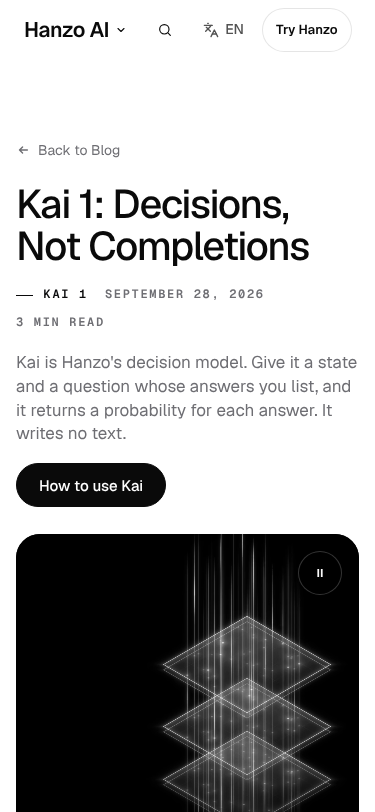
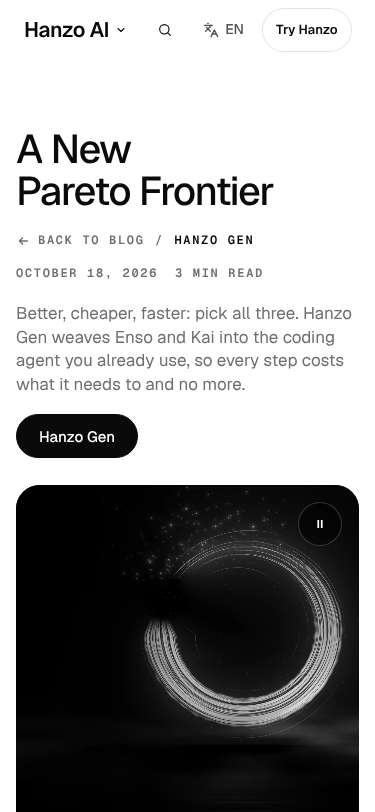
fix(blog-family): one ask at every width from first paint, phone ask in the chapter bar, breadcrumb under the h1, data-led post rhythm, asymmetric synthesis parts
Claude-Session: https://claude.ai/code/session_01T1hoMuz3Pa3LFEtY3bJiXi

Changed region(s): [[0.0293, 0.1539, 0.968, 1.0]]

diff --git a/components/pages/post/Post.jsx b/components/pages/post/Post.jsx
@@ -9,7 +9,7 @@
    Signature: the reading thread. A margin rail holds the chapter you are in as a numeral that hands over to the next,
    and a spine that fills as you read, each chapter a knot (on a phone, a reading bar that opens the contents).
    Beyond: minutes left. The post's own stated read time counts down as you read, and any chapter is one press away.
-   V2: 8/10 round 2: title cut-in is CSS from first paint and the film's poster drifts at once (no dead first second); every text-only chapter draws its own figures, bars or steps (Gist.jsx, no new copy); on phones the post's ask is the one solid (header quiet while it shows); chapter counter read on every scroll; Band headline balanced */
+   V2: 8/10 round 3: one ask everywhere (header outlined from first paint while the post's own ask shows; on phones the ask rides in the chapter bar and the shared rising bar never floats over text); "Back to Blog / <chip>" breadcrumb under the h1; each post's data sets its rhythm (a figures post mirrors the scene, counts its figures with the scroll and keeps its rail on the right); synthesis parts lead with one large film and list the rest. Round 2: CSS title cut-in, poster drift, chapter gists, counter on every scroll */
 // Persona: a developer or founder reading Hanzo's thinking (arrives from /blog, search or a shared link)
 // Goal: finish the post, understand its one idea, take the post's own next step
 // CTA: the post's first closing link as the one solid ask (hero, data-thumb, data-cta "blog-post.hero"), repeated in the closing Band
@@ -61,13 +61,16 @@ function Code({ tabs, id }) {
   );
 }
 
-/* role · name · note between hairlines; a part with its own Hanzo film shows it */
+/* role · name · note, asymmetric: the first part leads, large, with its own Hanzo film playing; the rest follow as a
+   list beside it, each with its film's still (or its Sigil when it has no film) as a small mark */
 function Parts({ cards }) {
   return (
-    <ul className="xbg-parts" style={{ '--n': Math.min(cards.length, 3) }}>
+    <ul className="xbg-parts" style={{ '--rest': Math.max(1, cards.length - 1) }}>
       {cards.map(([role, name, note], i) => (
-        <li key={name + i}>
-          {FILMS.includes(name.toLowerCase()) && <Film slug={name.toLowerCase()} className="xbg-part-film" />}
+        <li key={name + i} className={i === 0 ? 'lead' : ''}>
+          {i === 0
+            ? (FILMS.includes(name.toLowerCase()) && <Film slug={name.toLowerCase()} className="xbg-part-film" />)
+            : <span className="xbg-part-mark" aria-hidden="true">{FILMS.includes(name.toLowerCase()) ? <Img src={film(name.toLowerCase(), 'webp')} alt="" w={1200} h={1500} /> : <Sigil seed={'part-' + name} data={[name.length, note.length]} className="xbg-sigil" />}</span>}
           <b className="xbg-name">{name}</b>
           <span className="xbg-role x-mono">{role}</span>
           <span className="xbg-note">{note}</span>
@@ -111,27 +114,46 @@ function Title({ text }) {
    motion and no-JS get the same parts stacked. The header turns dark only once the plate fills the screen. */
 const PIN = '(min-width: 900px) and (prefers-reduced-motion: no-preference)';
 
-/* Phones keep Hanzo's "Try Hanzo" solid in the header; while the post's own solid ask is on screen the header's button
-   reads as an outline (the same html[data-ask=quiet] the shell sets on desktop), so the post's ask is the one solid. */
-function useOneSolidOnPhone() {
+/* One solid at a time, from the first paint (the /affiliate pattern): Post.css draws the header's ask outlined on a post
+   unless <html> carries data-xbg-solid. This hook sets that flag only while none of the post's own solid asks (the hero
+   ask, the phone chapter bar's ask, the closing Band's) is on screen, so the header is solid exactly when the post's
+   ask is not, at every width, and there is no solid-to-outline flash in the first second. */
+const OWN_ASKS = 'main.xbg [data-cta="blog-post.hero"], main.xbg [data-cta="blog-post.bar"], main.xbg .x-band .x-btn.solid';
+function useQuietHeader() {
   useEffect(() => {
     const H = document.documentElement;
-    const mq = matchMedia('(max-width: 700px)');
-    const el = document.querySelector('main.xbg [data-cta="blog-post.hero"]');
-    if (!el) return;
-    let mine = false, vis = false;
+    const asks = [...document.querySelectorAll(OWN_ASKS)];
+    if (!asks.length || typeof IntersectionObserver === 'undefined') return;
+    const vis = new Set();
+    // the hero ask fades out as the pinned plate opens (data-gone): faded counts as gone
     const apply = () => {
-      if (mq.matches && vis) { H.dataset.ask = 'quiet'; mine = true; }
-      else if (mine) { delete H.dataset.ask; mine = false; }
+      const on = [...vis].some((el) => !el.closest('[data-gone="true"]'));
+      if (on) delete H.dataset.xbgSolid; else H.dataset.xbgSolid = '';
     };
-    const io = new IntersectionObserver(([e]) => { vis = e.isIntersecting; apply(); });
-    io.observe(el);
-    const timers = [300, 1400].map((ms) => setTimeout(apply, ms)); // after the shell's own first pass
-    mq.addEventListener('change', apply);
-    return () => { io.disconnect(); timers.forEach(clearTimeout); mq.removeEventListener('change', apply); if (mine) delete H.dataset.ask; };
+    const io = new IntersectionObserver((es) => {
+      es.forEach((e) => (e.isIntersecting && e.boundingClientRect.width ? vis.add(e.target) : vis.delete(e.target)));
+      apply();
+    });
+    asks.forEach((a) => io.observe(a));
+    addEventListener('scroll', apply, { passive: true });
+    return () => { io.disconnect(); removeEventListener('scroll', apply); delete H.dataset.xbgSolid; };
   }, []);
 }
-function Stage({ doc, nums, ask }) {
+
+/* a plate figure counted up by the scroll as the plate opens (posts whose plate holds figures); the string is Hanzo's */
+function ScrubFig({ value, p, from, to }) {
+  const m = /^([^0-9]*)([0-9][0-9,]*(?:\.[0-9]+)?)(.*)$/.exec(value);
+  const mv = useTransform(p, (v) => {
+    if (!m) return value;
+    const k = Math.min(1, Math.max(0, (v - from) / (to - from)));
+    if (k >= 1) return value;
+    const n = parseFloat(m[2].replace(/,/g, '')), dec = (m[2].split('.')[1] || '').length;
+    const x = n * (1 - Math.pow(1 - k, 3));
+    return m[1] + (m[2].includes(',') ? x.toLocaleString('en-US', { minimumFractionDigits: dec, maximumFractionDigits: dec }) : x.toFixed(dec)) + m[3];
+  });
+  return <motion.span aria-hidden="true">{mv}</motion.span>;
+}
+function Stage({ doc, nums, ask, alt }) {
   const ref = useRef(null), plate = useRef(null), slot = useRef(null);
   const box = useRef({ t: 120, r: 32, b: 72, l: 520 });
   const [pin, setPin] = useState(false);
@@ -168,7 +190,7 @@ function Stage({ doc, nums, ask }) {
     if (v.paused) { v.play().catch(() => {}); setPaused(false); } else { v.pause(); setPaused(true); }
   };
   return (
-    <section className={'xbg-stage' + (doc.film ? ' film' : '')} ref={ref} aria-labelledby="xbg-h1">
+    <section className={'xbg-stage' + (doc.film ? ' film' : '')} ref={ref} aria-labelledby="xbg-h1" data-ask-hide>
       <div className="xbg-stage-in">
         <motion.div className="xbg-plate-in" ref={plate} style={pin ? { clipPath } : undefined}>
           {doc.film && (
@@ -185,7 +207,7 @@ function Stage({ doc, nums, ask }) {
                 <ul className={'xbg-facts' + (figs ? ' figs' : '')} style={{ '--n': doc.facts.length > 3 ? 2 : doc.facts.length }}>
                   {doc.facts.map(([role, name, note], i) => (
                     <li key={name + i}>
-                      <b className="xbg-fig">{name}</b>
+                      <b className="xbg-fig" aria-label={pin && alt ? name : undefined}>{pin && alt ? <ScrubFig value={name} p={p} from={0.46} to={0.8} /> : name}</b>
                       <span className="xbg-role x-mono">{role}</span>
                       <span className="xbg-note">{note}</span>
                     </li>
@@ -198,9 +220,16 @@ function Stage({ doc, nums, ask }) {
         <motion.div className="xbg-cover" style={pin ? { opacity: coverO, y: coverY } : undefined}>
           <div className="xbg-w xbg-cover-g">
             <div className="xbg-cover-t">
-              <A to={doc.back.href} className="xbg-back"><svg viewBox="0 0 16 16" width="14" height="14" aria-hidden="true"><path d="M13 8H4M7.5 4.5 4 8l3.5 3.5" fill="none" stroke="currentColor" strokeWidth="1.6" strokeLinecap="round" strokeLinejoin="round" /></svg><span>{doc.back.label}</span></A>
               <Title text={doc.title} />
-              <p className="xbg-meta x-mono"><span className="xbg-chip">{doc.chip}</span><span>{doc.date}</span><span>{doc.read}</span></p>
+              <div className="xbg-meta x-mono">
+                <nav aria-label="Breadcrumb" className="xbg-crumbs">
+                  <ol>
+                    <li><A to={doc.back.href} className="xbg-back"><svg viewBox="0 0 16 16" width="14" height="14" aria-hidden="true"><path d="M13 8H4M7.5 4.5 4 8l3.5 3.5" fill="none" stroke="currentColor" strokeWidth="1.6" strokeLinecap="round" strokeLinejoin="round" /></svg><span>{doc.back.label}</span></A></li>
+                    <li aria-current="page" className="xbg-chip">{doc.chip}</li>
+                  </ol>
+                </nav>
+                <span>{doc.date}</span><span>{doc.read}</span>
+              </div>
               <p className="xbg-lede">{doc.lede}</p>
               {ask && <div className="xbg-ask"><Cta to={ask.href} id="blog-post.hero" thumb>{ask.label}</Cta></div>}
             </div>
@@ -213,10 +242,10 @@ function Stage({ doc, nums, ask }) {
 }
 
 /* the reading thread: the chapter numeral, the spine and its knots, the minutes left; a reading bar on phones */
-function Thread({ doc, chapters, body }) {
+function Thread({ doc, chapters, body, ask }) {
   const [at, setAt] = useState(0);
   const [open, setOpen] = useState(false);
-  const left = useRef(null), leftP = useRef(null);
+  const left = useRef(null), leftP = useRef(null), leftS = useRef(null);
   const { scrollYProgress: fill } = useScroll({ target: body, offset: ['start 40%', 'end 85%'] });
   const say = (v) => { const m = Math.ceil(doc.minutes * (1 - v) - 0.05); return v > 0.985 ? 'Finished' : (m < 1 ? 'Under a minute' : m + ' min') + ' left'; };
   // the chapter you are in: the last heading above 60% of the screen, read on every scroll (not only while the body's
@@ -238,7 +267,7 @@ function Thread({ doc, chapters, body }) {
   useMotionValueEvent(fill, 'change', (v) => {
     const s = say(v);
     done.current = v > 0.985;
-    [left.current, leftP.current].forEach((el) => { if (el && el.textContent !== s) el.textContent = s; });
+    [left.current, leftP.current, leftS.current].forEach((el) => { if (el && el.textContent !== s) el.textContent = s; });
   });
   const list = (tap) => (
     <ol className="xbg-knots">
@@ -267,14 +296,20 @@ function Thread({ doc, chapters, body }) {
         </div>
       </aside>
       <div className="xbg-bar">
-        <button type="button" className="xbg-bar-b" aria-expanded={open} aria-controls="xbg-sheet" onClick={() => setOpen((o) => !o)}>
-          <span className="xbg-bar-n x-mono">{pad(at + 1)}</span>
-          <span className="xbg-bar-t">{chapters[at] ? chapters[at].h.text : doc.title}</span>
-          <span className="xbg-bar-m x-mono" ref={leftP}>{say(0)}</span>
-          <svg viewBox="0 0 16 16" width="14" height="14" aria-hidden="true" className={open ? 'up' : ''}><path d="M4 6l4 4 4-4" fill="none" stroke="currentColor" strokeWidth="1.6" strokeLinecap="round" strokeLinejoin="round" /></svg>
-        </button>
+        <div className="xbg-bar-row">
+          <button type="button" className="xbg-bar-b" aria-expanded={open} aria-controls="xbg-sheet" onClick={() => setOpen((o) => !o)}>
+            <span className="xbg-bar-n x-mono">{pad(at + 1)}</span>
+            <span className="xbg-bar-t">{chapters[at] ? chapters[at].h.text : doc.title}</span>
+            <span className="xbg-bar-m x-mono" ref={leftP}>{say(0)}</span>
+            <svg viewBox="0 0 16 16" width="14" height="14" aria-hidden="true" className={open ? 'up' : ''}><path d="M4 6l4 4 4-4" fill="none" stroke="currentColor" strokeWidth="1.6" strokeLinecap="round" strokeLinejoin="round" /></svg>
+          </button>
+          {ask && <Cta to={ask.href} id="blog-post.bar" size="sm" className="xbg-bar-ask">{ask.label}</Cta>}
+        </div>
         <motion.span className="xbg-bar-line" aria-hidden="true" style={{ scaleX: fill }} />
-        <div id="xbg-sheet" className="xbg-sheet" hidden={!open}>{list(true)}</div>
+        <div id="xbg-sheet" className="xbg-sheet" hidden={!open}>
+          {ask && <p className="xbg-sheet-m x-mono"><span>{doc.read}</span><span ref={leftS}>{say(0)}</span></p>}
+          {list(true)}
+        </div>
       </div>
     </>
   );
@@ -286,7 +321,7 @@ const Chevron = () => <svg viewBox="0 0 16 16" width="14" height="14" aria-hidde
 function End({ doc, cta, sources }) {
   return (
     <>
-      <section className="xbg-end" aria-label={doc.back.label}>
+      <section className="xbg-end" aria-label={doc.back.label} data-ask-hide>
         <div className="xbg-w">
           {sources && (
             <aside className="xbg-src" aria-label={sources.label}>
@@ -334,14 +369,20 @@ export default function Post({ doc }) {
   });
   chapters.forEach((c) => { c.gist = gist(c.blocks); });
   const nums = [doc.minutes, doc.title.length];
-  useOneSolidOnPhone();
+  const ask = cta && cta.links[0];
+  // each post's own data sets its rhythm: a post whose plate holds figures (Kai) mirrors the scene (film card on the
+  // left, title on the right, figures counted up by the scroll, the reading rail on the right); a post whose plate
+  // names products (Pareto) keeps the card on the right and the rail on the left; a post without a film keeps its Sigil
+  const alt = !!doc.film && doc.facts.length > 0 && doc.facts.every((c) => /\d/.test(c[1]));
+  useQuietHeader();
+  // data-ask-hide: the post's ask lives inline (hero, phone chapter bar, Band), so the shared rising bar never floats over it
   return (
-    <main className="xbg">
-      <Stage doc={doc} nums={nums} ask={cta && cta.links[0]} />
+    <main className={'xbg' + (alt ? ' alt' : '')}>
+      <Stage doc={doc} nums={nums} ask={ask} alt={alt} />
 
-      <section className="xbg-body">
+      <section className="xbg-body" data-ask-hide>
         <div className="xbg-w xbg-room">
-          <Thread doc={doc} chapters={chapters} body={body} />
+          <Thread doc={doc} chapters={chapters} body={body} ask={ask} />
           <article className="xbg-text" ref={body}>
             {chapters.map((c, n) => (
               <section key={c.h.id} className="xbg-ch" aria-labelledby={c.h.id}>

diff --git a/components/pages/post/Post.css b/components/pages/post/Post.css
@@ -9,7 +9,10 @@
 .xbg-stage-in { display: flex; flex-direction: column; }
 .xbg-cover { order: -1; padding: 116px 0 44px; }
 .xbg-cover-t { display: flex; flex-direction: column; align-items: flex-start; }
-.xbg-back { display: inline-flex; align-items: center; gap: 8px; min-height: 44px; margin-bottom: 27px; color: var(--mute); text-decoration: none; font: 400 14px/1 var(--sans); transition: color 150ms cubic-bezier(0, 0, .2, 1), transform 90ms cubic-bezier(0, 0, .2, 1); }
+.xbg-crumbs ol { display: flex; flex-wrap: wrap; align-items: center; gap: 0 10.5px; margin: 0; padding: 0; list-style: none; }
+.xbg-crumbs li { display: inline-flex; align-items: center; }
+.xbg-crumbs .xbg-chip::before { content: '/'; width: auto; height: auto; background: none; color: var(--mute); }
+.xbg-back { display: inline-flex; align-items: center; gap: 8px; min-height: 44px; color: var(--mute); text-decoration: none; font: inherit; transition: color 150ms cubic-bezier(0, 0, .2, 1), transform 90ms cubic-bezier(0, 0, .2, 1); }
 .xbg-back svg { transition: transform 300ms cubic-bezier(.4, 0, .2, 1); }
 @media (hover: hover) { .xbg-back:hover { color: var(--ink2); } .xbg-back:hover svg { transform: translateX(-4px); } }
 .xbg-back:active { transform: translateY(1px); transition-duration: 0s; }
@@ -21,7 +24,11 @@
 .xbg-plate-film { animation: xbg-drift 9s ease-in-out infinite alternate; }
 @keyframes xbg-drift { from { transform: scale(1.06) translate3d(1.5%, 1%, 0); } to { transform: scale(1) translate3d(0, 0, 0); } }
 @media (prefers-reduced-motion: reduce) { .xbg-wi, .xbg-plate-film, .xbg-gist * { animation: none !important; } }
-.xbg-meta { display: flex; flex-wrap: wrap; align-items: center; gap: 6.5px 17px; margin: 17px 0 0; color: var(--mute); }
+.xbg-meta { display: flex; flex-wrap: wrap; align-items: center; gap: 0 17px; margin: 6.5px 0 0; color: var(--mute); }
+/* one solid at a time from the first paint (the /affiliate pattern): the header's ask is outlined on a post until the
+   post's hook says none of its own asks is on screen (html[data-xbg-solid]) */
+html:has(main.xbg):not([data-xbg-solid]) header[data-slot=masthead] a[href="https://hanzo.ai/signup"],
+html:has(main.xbg):not([data-xbg-solid]) header[data-slot=masthead] a[data-x-ask] { background-color: transparent; color: var(--foreground); box-shadow: inset 0 0 0 1px var(--border, rgba(0, 0, 0, .14)); }
 .xbg-chip { display: inline-flex; align-items: center; gap: 10.5px; color: var(--ink2); }
 .xbg-chip::before { content: ''; width: 17px; height: 1px; background: currentColor; }
 .xbg-lede { margin: 27px 0 0; max-width: 44ch; font-size: 21px; line-height: 1.4; color: var(--mute); text-wrap: pretty; }
@@ -66,6 +73,19 @@
   .js .xbg-cover-t { max-width: calc((var(--W) - 27px) * 5 / 13); pointer-events: auto; }
   .js .xbg-slot { display: block; position: absolute; top: var(--ct); bottom: var(--cb); left: var(--cl); right: var(--L); pointer-events: none; }
   .js .xbg-stage[data-gone='true'] .xbg-cover { visibility: hidden; }
+  /* a figures post (Kai) mirrors the scene: card on the left, title on the right, figures settle on the right */
+  .js .alt .xbg-stage .xbg-plate-in { clip-path: inset(var(--ct) var(--cl) var(--cb) var(--L) round 24px); }
+  .js .alt .xbg-slot { left: var(--L); right: var(--cl); }
+  .js .alt .xbg-cover-t { margin-left: auto; }
+  .js .alt .xbg-pause { right: auto; left: calc(var(--L) + 17px); }
+  .js .alt .xbg-plate-film { right: auto; left: 0; object-position: 40% 45%; -webkit-mask-image: linear-gradient(270deg, transparent 0, #000 30%); mask-image: linear-gradient(270deg, transparent 0, #000 30%); }
+  .js .alt .xbg-plate-f { align-self: flex-end; transform-origin: 100% 100%; }
+  .js .alt .xbg-plate-k { flex-direction: row-reverse; }
+}
+/* a figures post keeps its reading rail on the right of the column */
+@media (min-width: 1200px) {
+  .alt .xbg-room { grid-template-columns: minmax(0, 768px) minmax(0, 1fr); }
+  .alt .xbg-rail { order: 2; }
 }
 
 /* ---------- the room: the thread on the left, one 768px reading column on the right ---------- */
@@ -104,9 +124,16 @@
 .xbg-knots li[data-on] .xbg-knot::after { content: ''; position: absolute; inset: -4px; border-radius: 50%; box-shadow: 0 0 0 1.5px var(--ink2); }
 .xbg-bar { display: none; }
 
-/* parts between hairlines; a part with a Hanzo film shows it */
-.xbg-parts { list-style: none; margin: 44px 0; padding: 0; display: grid; grid-template-columns: repeat(var(--n), minmax(0, 1fr)); column-gap: 27px; row-gap: 44px; }
-.xbg-parts li { display: flex; flex-direction: column; gap: 10.5px; padding-top: 17px; border-top: 1px solid var(--ink2); }
+/* parts, asymmetric: the first leads large with its film playing; the rest are a list beside it, each with a small mark */
+.xbg-parts { list-style: none; margin: 44px 0; padding: 0; display: grid; grid-template-columns: minmax(0, 5fr) minmax(0, 7fr); column-gap: 44px; align-items: start; }
+.xbg-parts li { display: grid; grid-template-columns: 56px minmax(0, 1fr); grid-template-areas: 'm n' 'm r' 'm t'; column-gap: 17px; row-gap: 4px; grid-column: 2; padding: 17px 0; border-top: 1px solid var(--hair); }
+.xbg-parts li .xbg-name { grid-area: n; font-size: 21px; }
+.xbg-parts li .xbg-role { grid-area: r; }
+.xbg-parts li .xbg-note { grid-area: t; }
+.xbg-parts li.lead { grid-column: 1; grid-row: 1 / span var(--rest); display: flex; flex-direction: column; gap: 10.5px; padding-top: 17px; border-top: 1px solid var(--ink2); }
+.xbg-parts li.lead .xbg-name { font-size: 44px; font-weight: 220; letter-spacing: -.03em; }
+.xbg-part-mark { grid-area: m; position: relative; display: block; width: 56px; aspect-ratio: 4 / 5; border-radius: 10.5px; overflow: hidden; background: #000; color: rgba(255, 255, 255, .6); }
+.xbg-part-mark img, .xbg-part-mark .xbg-sigil { position: absolute; inset: 0; width: 100%; height: 100%; object-fit: cover; }
 .xbg-part-film { width: 100%; aspect-ratio: 4 / 5; height: auto; object-fit: cover; border-radius: 20px; background: #000; margin-bottom: 6.5px; }
 .xbg-name { font-size: 26px; font-weight: 497; letter-spacing: -.02em; line-height: 1.1; }
 .xbg-role { color: var(--mute); }
@@ -213,6 +240,9 @@ html:not(.js) .xbg-gist-track i { transform: none; }
   .xbg-rail { display: none; }
   .xbg-text { max-width: 768px; }
   .xbg-bar { display: block; position: sticky; top: 60px; z-index: 10; margin: 0 calc(-1 * var(--gut)) 44px; background: var(--room-bg); border-bottom: 1px solid var(--hair); }
+  .xbg-bar-row { display: flex; align-items: center; gap: 10.5px; padding-right: var(--gut); }
+  .xbg-bar-row .xbg-bar-b { flex: 1; min-width: 0; padding-right: 0; }
+  .xbg-bar-ask { display: none; flex: none; }
   .xbg-bar-b { display: grid; grid-template-columns: auto minmax(0, 1fr) auto 14px; align-items: center; gap: 10.5px; width: 100%; min-height: 56px; padding: 0 var(--gut); border: 0; background: none; text-align: left; color: var(--ink2); font: 400 14px/1.2 var(--sans); cursor: pointer; }
   .xbg-bar-b:active { transform: scale(.99); }
   .xbg-bar-n { font-size: 12px; color: var(--mute); letter-spacing: .14em; }
@@ -225,7 +255,6 @@ html:not(.js) .xbg-gist-track i { transform: none; }
 }
 @media (max-width: 899px) {
   .xbg-cover { padding: 68px 0 27px; }
-  .xbg-back { margin-bottom: 10.5px; }
   .xbg-h1 { font-size: 40px; line-height: 1.06; }
   .xbg-lede { margin-top: 17px; font-size: 17px; }
   .xbg-ask { margin-top: 17px; }
@@ -239,6 +268,8 @@ html:not(.js) .xbg-gist-track i { transform: none; }
   .xbg-fig { font-size: 44px; }
   .xbg-stage.film .xbg-facts:not(.figs) li { grid-template-columns: minmax(0, 1fr); grid-template-areas: 'f' 'r' 'n'; }
   .xbg-parts { grid-template-columns: minmax(0, 1fr); }
+  .xbg-parts li, .xbg-parts li.lead { grid-column: 1; grid-row: auto; }
+  .xbg-parts li.lead { margin-bottom: 17px; }
   .xbg-gist .xbg-gist-s .x-stat-v { font-size: 44px; }
   .xbg-gist-bar { grid-template-columns: 128px minmax(0, 1fr); column-gap: 17px; }
   .xbg-gist-bar .x-stat-v { font-size: 32px; }
@@ -255,6 +286,13 @@ html:not(.js) .xbg-gist-track i { transform: none; }
   .xbg-src, .xbg-next { grid-template-columns: minmax(0, 1fr); }
   .xbg-src ol { margin-top: 17px; }
 }
+/* phones: the post's ask rides in the chapter bar, inline, instead of a bar floating over the text */
+@media (max-width: 700px) {
+  .xbg-bar-ask { display: inline-flex; }
+  .xbg-bar-m { display: none; }
+  .xbg-sheet .xbg-sheet-m { display: flex; justify-content: space-between; margin: 10.5px 0 4px; font-size: 12px; letter-spacing: .14em; text-transform: uppercase; color: var(--mute); }
+}
+.xbg-sheet-m { display: none; }
 @media (max-width: 599px) {
   .xbg-facts.figs, .xbg-stage.film .xbg-facts.figs { grid-template-columns: minmax(0, 1fr); }
 }

diff --git a/docs/coverage/blog-family.md b/docs/coverage/blog-family.md
@@ -13,7 +13,7 @@ Forks this page deleted: its own code tabs and copy button (now kit `Tabs` + `Co
 - [x] No dead or self-looping button; n/a prices
 - [x] Open copy questions for James listed, none decided
 
-Done here: one solid `Cta` (`blog-post.hero`, the post's first closing link, e.g. "How to use Kai") on screen one, repeated once in the closing `Band`; the header's "Try Hanzo" turns outline while it shows, then carries the post's ask once the hero has gone (desktop, shared system; no floating pill). On phones (700px and under) the post's hero ask is the one solid: while it is on screen the page sets `html[data-ask=quiet]` so the header's "Try Hanzo" reads as an outline (the /bounty pattern; measured at 375x812: one solid, "How to use Kai" / "Hanzo Gen"). Persona/Goal/CTA/Metric/Signature/Beyond are in `Post.jsx`'s top comment.
+Done here: one solid `Cta` (`blog-post.hero`, the post's first closing link, e.g. "How to use Kai") on screen one, repeated once in the closing `Band`; the header's "Try Hanzo" turns outline while it shows, then carries the post's ask once the hero has gone (desktop, shared system; no floating pill). One solid at every width, from the first paint (the /affiliate pattern): `Post.css` draws the header's ask outlined on a post, and `useQuietHeader` turns it solid only while none of the post's own asks (hero, phone chapter bar, Band) is on screen or the hero has faded under the plate. On phones the post's ask rides inline in the 56px chapter bar (`blog-post.bar`), and the stage, body and end sections carry `data-ask-hide`, so the shared rising bar never floats over the text. Measured at 375x812 while reading: one solid ("Hanzo Gen" / "How to use Kai" in the bar), header outlined, no rising bar. Persona/Goal/CTA/Metric/Signature/Beyond are in `Post.jsx`'s top comment.
 
 ## 2. Information architecture and navigation
 - [x] One `<main>`; skip link reaches `#main` (layout)
@@ -21,7 +21,7 @@ Done here: one solid `Cta` (`blog-post.hero`, the post's first closing link, e.g
 - [x] Breadcrumb at depth 2: Hanzo's own "Back to Blog" link sits first on the page
 - [x] Link parity: 0 removed, 0 unexpected
 
-Done here: parity links 4/4, 8/8, 9/9; next-post cards are `<A>` links that open by Morph; chapters are anchored h2s reachable from the rail (desktop) and the reading-bar sheet (phone).
+Done here: breadcrumb `nav[aria-label=Breadcrumb]` "Back to Blog / <post chip>" sits in the meta line under the h1 (last item `aria-current="page"`, not a link), so nothing sits above the title; parity links 4/4, 8/8, 9/9; next-post cards are `<A>` links that open by Morph; chapters are anchored h2s reachable from the rail (desktop) and the reading-bar sheet (phone).
 
 ## 3. First impression and page narrative
 - [x] Sells in 5 s; something moves within 1 s without input
@@ -31,7 +31,7 @@ Done here: parity links 4/4, 8/8, 9/9; next-post cards are `<A>` links that open
 - [x] Ends in proof (sources, other posts), `Band`, footer
 - [x] Card-to-page links use Morph; the card title carries `data-morph`, the h1 is `data-morph-target`
 
-Done here: screen one is the 52px title cut in by word mask (700 ms, 55 ms apart, a CSS animation from first paint, so it does not wait for hydration; the film's poster drifts from first paint too), the post's ask, and its film (Kai, Enso) or Sigil playing in a card from the first second (critic 6/10 fix: "the picture only starts when I scroll"). The scene pins and the card opens to full bleed, then chapters, sources, next posts, `Band`. At 1470x801 the film card's top sits at 176px, playing (currentTime 2.1s to 4.2s over 2s, measured on both members); the Sigil post moves too. On phones the back link sits 68px under the header and about 280px of film is in the first screen. Mid-page stays one-in-one-out: every chapter that is only paragraphs gets one object drawn from its own words (`Gist.jsx`): Pareto 01 and Kai 01 a step track whose light walks through the chapter's own three steps, Pareto 03 count-up tiles "0.27 / ms p50" and "$0.021 / per million tokens", Kai 03 "Limits" 1,024 against 32,768 as bars at their true ratio. JS off: the cut-in plays as plain CSS, so the title always lands.
+Done here: screen one is the 52px title cut in by word mask (700 ms, 55 ms apart, a CSS animation from first paint, so it does not wait for hydration; the film's poster drifts from first paint too), the post's ask, and its film (Kai, Enso) or Sigil playing in a card from the first second (critic 6/10 fix: "the picture only starts when I scroll"). The scene pins and the card opens to full bleed, then chapters, sources, next posts, `Band`. At 1470x801 the film card's top sits at 176px, playing (currentTime 2.1s to 4.2s over 2s, measured on both members); the Sigil post moves too. Nothing sits above the h1 (the breadcrumb is under it); on phones the h1 starts 68px under the header and about 280px of film is in the first screen. Mid-page stays one-in-one-out: every chapter that is only paragraphs gets one object drawn from its own words (`Gist.jsx`): Pareto 01 and Kai 01 a step track whose light walks through the chapter's own three steps, Pareto 03 count-up tiles "0.27 / ms p50" and "$0.021 / per million tokens", Kai 03 "Limits" 1,024 against 32,768 as bars at their true ratio. JS off: the cut-in plays as plain CSS, so the title always lands.
 
 ## 4. Conversion system
 - [x] `<Cta>` only; no raw `.x-btn`
@@ -64,7 +64,7 @@ Done here: parity text 110/110, 77/77, 45/45. Sizes are from the deck only: h1 5
 - [x] One icon set (inline 16px strokes); no icon in a box
 - [x] Differs from neighbours: hero medium is the post's own film in a card that opens to a black room
 
-Done here: `taste.py` OK on all 5 files; code samples are greys only (kit `CodeBlock`: ink lines, comments dimmed), no syntax hues; one black room (the plate) plus the closing `Band`, not back to back; colour only from Hanzo's model films.
+Done here: neighbours differ by their own data: a post whose plate holds figures (Kai) mirrors the scene (film card left, title right, figures counted up by the scroll as the plate opens, reading rail on the right); a post whose plate names products (Pareto) keeps card right, rail left; a post without a film (synthesis) shows its Sigil and the Life board. Synthesis "AI for AI" parts are asymmetric: Zen leads large with its film, the other five follow as a list with small marks (film stills or Sigils). `taste.py` OK on all 6 files; code samples are greys only (kit `CodeBlock`: ink lines, comments dimmed), no syntax hues; one black room (the plate) plus the closing `Band`, not back to back; colour only from Hanzo's model films.
 
 ## 8. UI component library
 - [x] Every control has hover (inside `@media (hover:hover)`), press (scale .97, 90 ms), focus-visible
@@ -98,7 +98,7 @@ Done here: films are Hanzo's own `/models/*.webm` with `.webp` posters, played b
 - [x] Every target 44px or more; hovers have tap paths
 - [x] Primary ask above the fold at 375 (title, meta, lede, ask, then 45svh of film)
 
-Done here: under 900px the scene stacks (no pin): title 40px, lede 17px, the ask, then the plate with its film at 45svh; the rail becomes a sticky reading bar with a contents sheet.
+Done here: under 900px the scene stacks (no pin): title 40px, breadcrumb and meta, lede 17px, the ask, then the plate with its film at 45svh; the rail becomes a sticky reading bar with a contents sheet; at 700px and under the bar carries the post's ask on its right and the minutes left move into the sheet.
 
 ## 12. Accessibility (WCAG 2.2 AA)
 - [x] Text uses room ink and room soft (#6e6e73 on white, 4.9:1); white 55–78% on black
